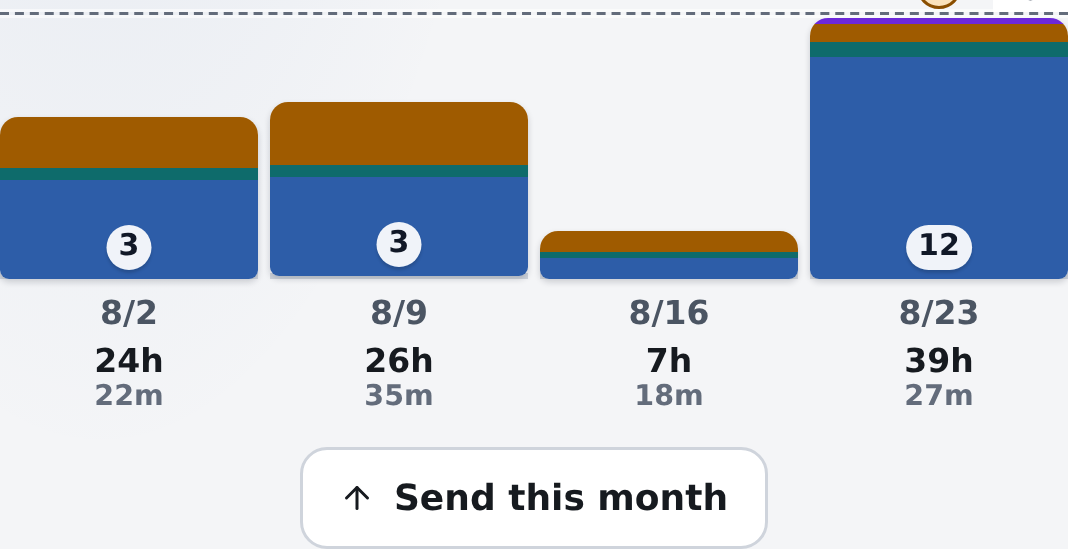
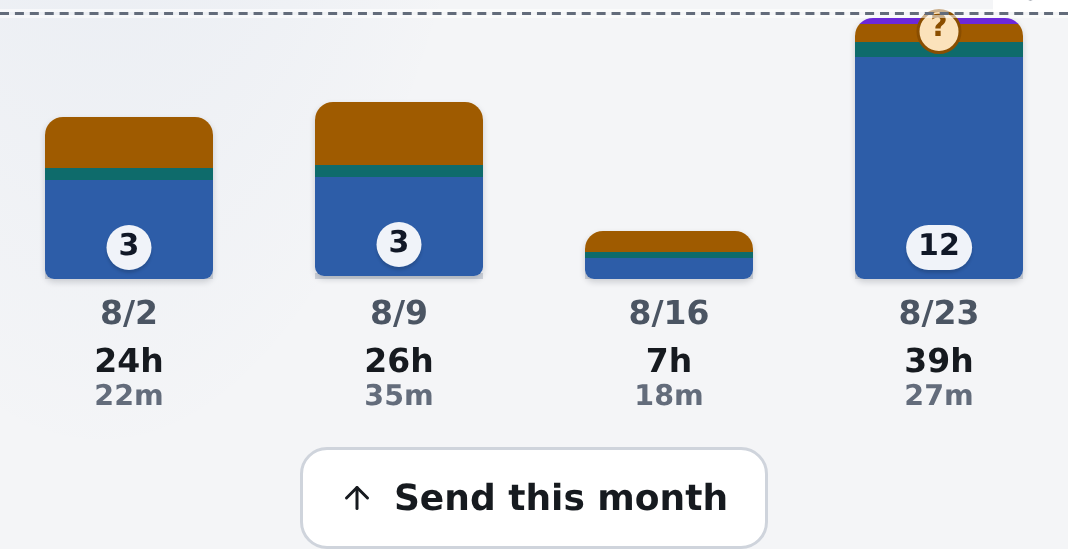
Two weeks in a card were not bars, and 39h had nothing to be under [CF-Pages-Skip]
Owner, on a crew card holding two weeks: "the bars don't look great." Two
separate defects, neither about the data.

SHAPE. The column cap was 104px against a 92px plot, so it was only ever a cap
in name: any chart with two or three columns drew bars wider than they were
tall, and a rectangle wider than it is tall is a slab, which is the exact note
he gave about a one-week month earlier today. The cap is an aspect ratio now,
56px, comfortably under the plot height, so two weeks, four weeks and seven
days are the same object at different counts. The seven-day week is untouched:
its tracks were already narrower than this.

RULER. The 40-hour line only drew when the ceiling happened to reach it, and
the ceiling is the tallest column plus 6%. So on every month nobody crossed 40
in, the line was absent and the tallest bar was the tallest thing in its own
chart: Jose's 23h week read as a full one. That is the failure mode a guide
exists to prevent, and at this zoom the number that changes what somebody does
next is 40. The month's ceiling now has 40h as its floor, so the line is on
screen always and a light month draws short bars, which is the true answer and
is printed in words under every column anyway.

The clamp on the unanswered badge is the third thing, found in the screenshot
of the second fix: parked at the top of a bar that nearly reaches the ceiling
it floated out of the plot and landed on the guide's own "40h" label. It rides
[…]

diff --git a/tests/e2e-timelog-month.spec.js b/tests/e2e-timelog-month.spec.js
@@ -8,6 +8,109 @@
 const { test, expect, mockAllExternal, waitForAppBoot, assertNoErrors } = require('./helpers');
 const { MONTH_ROWS, mountMonth } = require('./week-bars-fixture');
 
+// ── What a bar is measured against, and what shape it comes out ───────────
+// Owner 2026-08-30, on a crew card holding two weeks: "the bars don't look
+// great." Two separate defects wearing one complaint, and neither was about
+// the data.
+test.describe('month bars: the ruler and the shape', () => {
+  test.beforeEach(async ({ page }) => {
+    await mockAllExternal(page);
+    await page.goto('/index.html');
+    await waitForAppBoot(page);
+    await mountMonth(page);
+  });
+  test.afterEach(async ({ page }) => { assertNoErrors(page, 'month ruler'); });
+
+  test('the 40-hour line is drawn on a month nobody reached 40 in', async ({ page }) => {
+    const r = await page.evaluate(() => {
+      const g = document.querySelector('.tl-wbar-guide');
+      const plot = document.querySelector('.tl-wbar-plotarea');
+      const hours = [...document.querySelectorAll('.tl-wbar-amt')].map(e => e.textContent);
+      const gb = g && g.getBoundingClientRect(), pb = plot.getBoundingClientRect();
+      const tall = [...document.querySelectorAll('.tl-wbar-stack')]
+        .map(e => e.getBoundingClientRect());
+      return { there: !!g, label: g && g.querySelector('b').textContent, hours,
+               inside: !!gb && gb.top >= pb.top - 1 && gb.bottom <= pb.bottom + 1,
+               above: !!gb && tall.every(b => b.top >= gb.top - 1) };
+    });
+    // The fixture's biggest week is 39h 27m. Before the floor, the ceiling was
+    // that week plus 6%, the 40h line fell outside the chart and was never
+    // drawn, and the tallest bar read as a FULL week with nothing to measure
+    // it against. That is the exact failure a guide exists to prevent.
+    expect(r.hours).toContain('39h');
+    expect(r.there).toBe(true);
+    expect(r.label).toBe('40h');
+    expect(r.inside).toBe(true);
+    expect(r.above, '39h must sit UNDER the 40h line, not on it').toBe(true);
+  });
+
+  test('_tlBarCeiling: the floor is a floor, and junk never becomes one', async ({ page }) => {
+    const r = await page.evaluate(() => ({
+      // 40h floor holds a light month down to scale.
+      light: _tlBarCeiling([120, 90], 2400),
+      // A month that beats the floor scales to itself plus headroom.
+      heavy: _tlBarCeiling([3000], 2400),
+      // No floor given, or a nonsense one, falls back to the 4h default
+      // rather than collapsing the chart to zero height.
+      none: _tlBarCeiling([120]),
+      nul: _tlBarCeiling([120], null),
+      zero: _tlBarCeiling([120], 0),
+      neg: _tlBarCeiling([120], -500),
+      str: _tlBarCeiling([120], 'forty'),
+      nan: _tlBarCeiling([120], NaN),
+    }));
+    expect(r.light).toBe(2400);
+    expect(r.heavy).toBe(3180);
+    [r.none, r.nul, r.zero, r.neg, r.str, r.nan].forEach(v => expect(v).toBe(240));
+  });
+
+  test('a bar is always taller than it is wide, however few there are', async ({ page }) => {
+    const r = await page.evaluate(async () => {
+      const shot = () => [...document.querySelectorAll('.tl-wbar-col')].map(c => {
+        const b = c.getBoundingClientRect();
+        const plot = c.querySelector('.tl-wbar-plot').getBoundingClientRect();
+        return { w: Math.round(b.width), plotH: Math.round(plot.height) };
+      });
+      const month = shot();                       // four weekly bars
+      _tlDrillTo('week', '2026-08-23');
+      await new Promise(r2 => setTimeout(r2, 300));
+      const week = shot();                        // seven daily bars
+      _tlDrillTo('month', '2026-09');             // September holds ONE week
+      await new Promise(r2 => setTimeout(r2, 300));
+      const one = shot();
+      return { month, week, one };
+    });
+    // The cap was 104px against a 92px plot, so any chart with two or three
+    // columns produced bars wider than they were tall and they read as slabs.
+    // A bar is a bar at every count now.
+    expect(r.one.length).toBe(1);
+    [...r.month, ...r.week, ...r.one].forEach(c => {
+      expect(c.w).toBeLessThan(c.plotH);
+      // And still a real target: WCAG 2.5.8's 24px minimum.
+      expect(c.w).toBeGreaterThanOrEqual(24);
+    });
+  });
+
+  test('the unanswered badge never leaves the chart', async ({ page }) => {
+    const r = await page.evaluate(() => {
+      const q = document.querySelector('.tl-wbar-q');
+      const plot = document.querySelector('.tl-wbar-plotarea');
+      if (!q) return { there: false };
+      const qb = q.getBoundingClientRect(), pb = plot.getBoundingClientRect();
+      const lbl = document.querySelector('.tl-wbar-guide b').getBoundingClientRect();
+      const hit = !(qb.right < lbl.left || qb.left > lbl.right ||
+                    qb.bottom < lbl.top || qb.top > lbl.bottom);
+      return { there: true, above: qb.top >= pb.top - 1, overlapsLabel: hit };
+    });
+    // The fixture's 39h week carries the hole, so its badge sits at the very
+    // top of the chart: unclamped it floated out of the plot and landed on the
+    // guide's own "40h" label (§15.1).
+    expect(r.there).toBe(true);
+    expect(r.above, 'the badge stays inside the plot').toBe(true);
+    expect(r.overlapsLabel, 'and off the guide label').toBe(false);
+  });
+});
+
 test.describe('month bars: pure helpers', () => {
   test.beforeEach(async ({ page }) => {
     await mockAllExternal(page);

diff --git a/js/timelog.js b/js/timelog.js
@@ -1141,11 +1141,13 @@ const _TL_BAR_FLOOR=4*60;       // a light week still shows its shape
 // makes an 11-hour week and a 4-hour week look identical, so the ceiling is the
 // tallest day plus headroom, never below four hours. The guide line is then
 // drawn only when 8 hours actually falls inside the chart.
-function _tlBarCeiling(dayMins){
+function _tlBarCeiling(dayMins,floorMin){
   const max=Math.max.apply(null,[0].concat(Array.isArray(dayMins)?dayMins:[]));
+  const f=Number(floorMin);
   // 6% of headroom, not 12%: enough that the tallest bar never looks clipped
   // against the ceiling, without banding empty space across the whole chart.
-  return Math.max(Math.round(max*1.06),_TL_BAR_FLOOR);
+  return Math.max(Math.round(max*1.06),
+    Number.isFinite(f)&&f>0?f:_TL_BAR_FLOOR);
 }
 // ── Making a bar look like something you can open ──────────────────────────
 // Owner, 2026-08-30: "how do we make the bars scream click me for more info
@@ -1202,7 +1204,7 @@ function _tlBarsHtml(groups,opts){
   const o=opts||{};
   const folds=list.map(g=>_tlBucketFold(g.rows));
   if(!folds.some(f=>f.min>0))return '';
-  const ceil=_tlBarCeiling(folds.map(f=>f.min));
+  const ceil=_tlBarCeiling(folds.map(f=>f.min),o.floorMin);
   const gMin=Number(o.guideMin)||0;
   const guide=(gMin>0&&gMin<=ceil)
     ?'<span class="tl-wbar-guide" style="bottom:'+(gMin/ceil*100).toFixed(2)+'%">'+
@@ -1227,8 +1229,16 @@ function _tlBarsHtml(groups,opts){
     // column: parked at the ceiling it floated in space over a short column
     // and read as belonging to nothing.
     const amt=_tlBarAmtParts(e.min);
+    // CLAMPED so it can never leave the plot. Parked at the top of a bar that
+    // nearly reaches the ceiling, the badge floated above the chart and landed
+    // on the guide's own "40h" label (§15.1: nothing overlaps). Past 86% it
+    // rides just inside the bar's top edge instead, where the amber ring keeps
+    // it readable against any segment colour.
+    // 78, not 86: the badge is drawn ABOVE its anchor, so the anchor plus its
+    // own 15px has to fit inside the 92px plot. 86% left it five pixels out.
+    const qb=Math.min(h,78);
     const q=gapMin
-      ?'<i class="tl-wbar-q" style="bottom:calc('+h.toFixed(2)+'% + 3px)" '+
+      ?'<i class="tl-wbar-q" style="bottom:calc('+qb.toFixed(2)+'% + 3px)" '+
         'title="'+escHtml(fm(gapMin)+' unaccounted, tap to answer')+'">?</i>'
       :'';
     // The countable unknown, printed on the bar it counts. Only when the bar is
@@ -1335,7 +1345,15 @@ function _tlMonthBarsHtml(monthRows,mo,scope,uid){
     rows:byWeek[wk],
     onclick:su?('_tlDrillPerson(\''+su+'\',\''+String(wk)+'\')')
               :('_tlDrillTo(\'week\',\''+String(wk)+'\')')
-  })),{guideMin:_TL_MONTH_GUIDE_MIN,guideLabel:'40h',share});
+    // THE 40-HOUR LINE IS ALWAYS ON SCREEN AT THIS ZOOM, which is what the
+    // floor buys: the ceiling can no longer fall below it, so the guide is
+    // drawn on every month instead of only on months somebody happened to
+    // cross it. Without this a crew member's 23h week was the tallest thing in
+    // its own chart and read as a full one (owner 2026-08-30, on Jose's card).
+    // The cost is deliberate: a light month draws short bars, which is the
+    // true answer, and the hours are printed under every column anyway.
+  })),{guideMin:_TL_MONTH_GUIDE_MIN,guideLabel:'40h',share,
+      floorMin:_TL_MONTH_GUIDE_MIN});
 }
 // "8/23" for a weekly column: short enough for six columns on a 320px phone,
 // and unambiguous because the month picker above already names the month.

diff --git a/index.html b/index.html
@@ -1349,8 +1349,16 @@ body.dark .tl-wbar-guide{box-shadow:0 1px 0 rgba(0,0,0,.45),0 -1px 0 rgba(0,0,0,
 /* A month with one week gave that week the whole page and it read as a block,
    not a bar (owner 2026-08-30: "one week looks awful"). The TRACK still splits
    evenly so every column keeps the same ruler; the bar inside it is capped and
-   centred, so one bar and seven bars are the same object at different counts. */
-.tl-wbar-col{min-width:0;justify-self:center;width:100%;max-width:104px}
+   centred, so one bar and seven bars are the same object at different counts.
+   THE CAP IS AN ASPECT RATIO, NOT A ROUND NUMBER. It was 104px, which is wider
+   than the 92px plot is tall, so any chart with two or three columns produced
+   bars wider than they were tall and they read as slabs again (owner
+   2026-08-30, on Jose's two-week card: "the bars don't look great"). 56px is
+   comfortably under the plot height, so a bar is a bar at every count: two
+   weeks, four weeks and seven days now all look like the same object, and the
+   seven-day week is unchanged because its tracks were already narrower than
+   this. */
+.tl-wbar-col{min-width:0;justify-self:center;width:100%;max-width:56px}
 .tl-wbar-hit{display:flex;flex-direction:column;align-items:stretch;width:100%;min-width:0;
   background:none;border:0;padding:0;margin:0;font-family:inherit;cursor:pointer}
 /* The column the bar grows inside. Height is fixed so every day is measured

diff --git a/js/cloud.js b/js/cloud.js
@@ -634,7 +634,7 @@ const _supaMode=(()=>{try{return localStorage.getItem('zp3_supa_mode');}catch(_e
 // `let` so the supaInit auto-fallback can flip it to the proxy before the client is built.
 let SUPA_URL = (_supaMode==='proxy') ? _SUPA_PROXY_URL : _SUPA_DIRECT_URL;
 const SUPA_KEY = 'sb_publishable_kaahEa5tFydocUuYi8plHg_K78HPyvJ';
-const APP_VERSION='08.30.26.24';
+const APP_VERSION='08.30.26.25';
 let _supa=null,_supaUser=null,_syncTimer=null,_syncStatus='local',_supaCloudLoaded=false,_lastLocalSaveAt=0;
 let _syncBroadcastChannel=null,_realtimeSubscribed=false,_loadInProgress=false,_activeLoadPromise=null,_broadcastReloadTimer=null,_broadcastPending=false,_reconcileTimer=null,_writeCacheTimer=null,_rtRenderTimer=null;
 // True only for the window between an in-tab sign-in landing on the dashboard

diff --git a/sw.js b/sw.js
@@ -1,4 +1,4 @@
-const CACHE = 'tradedesk-08.30.26.24';
+const CACHE = 'tradedesk-08.30.26.25';
 
 // Safari WebKit rejects any cached response with redirected:true when the SW
 // tries to serve it for a navigation. new Response() always has redirected:false.
